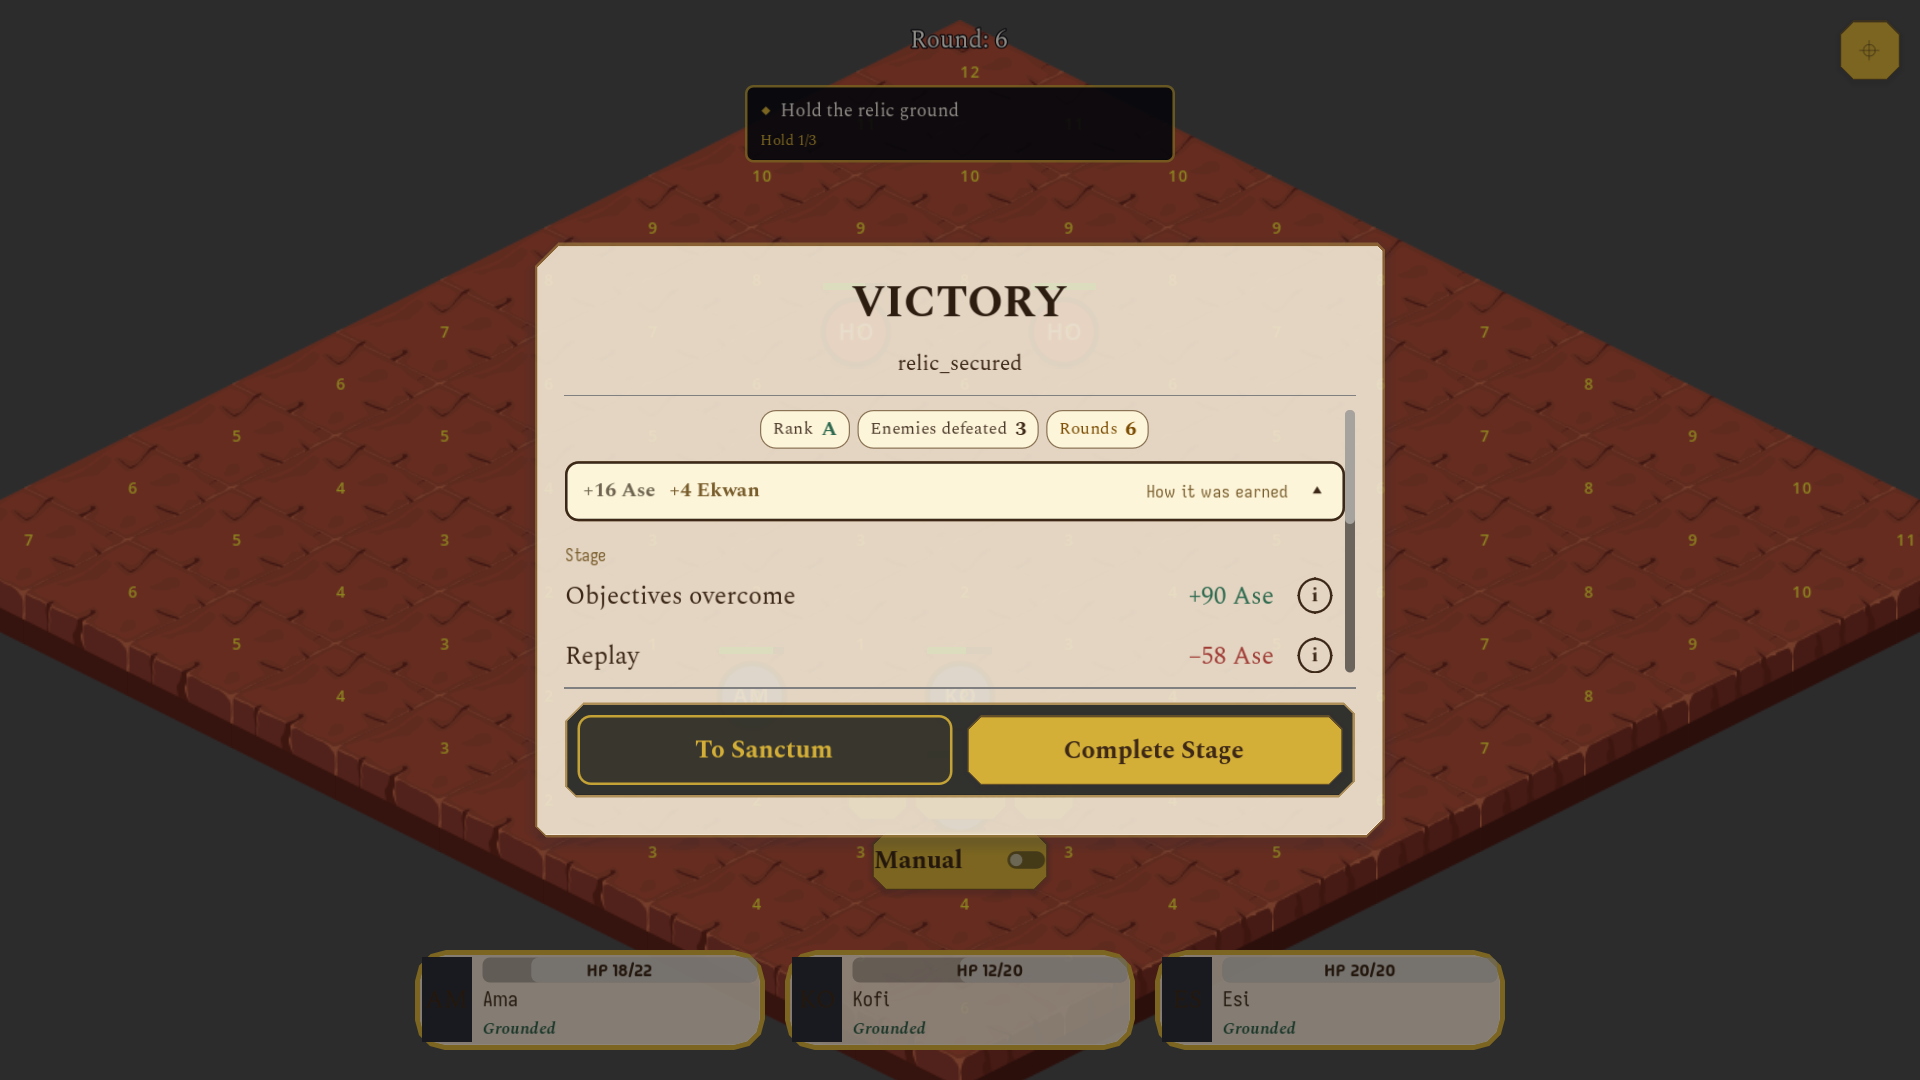
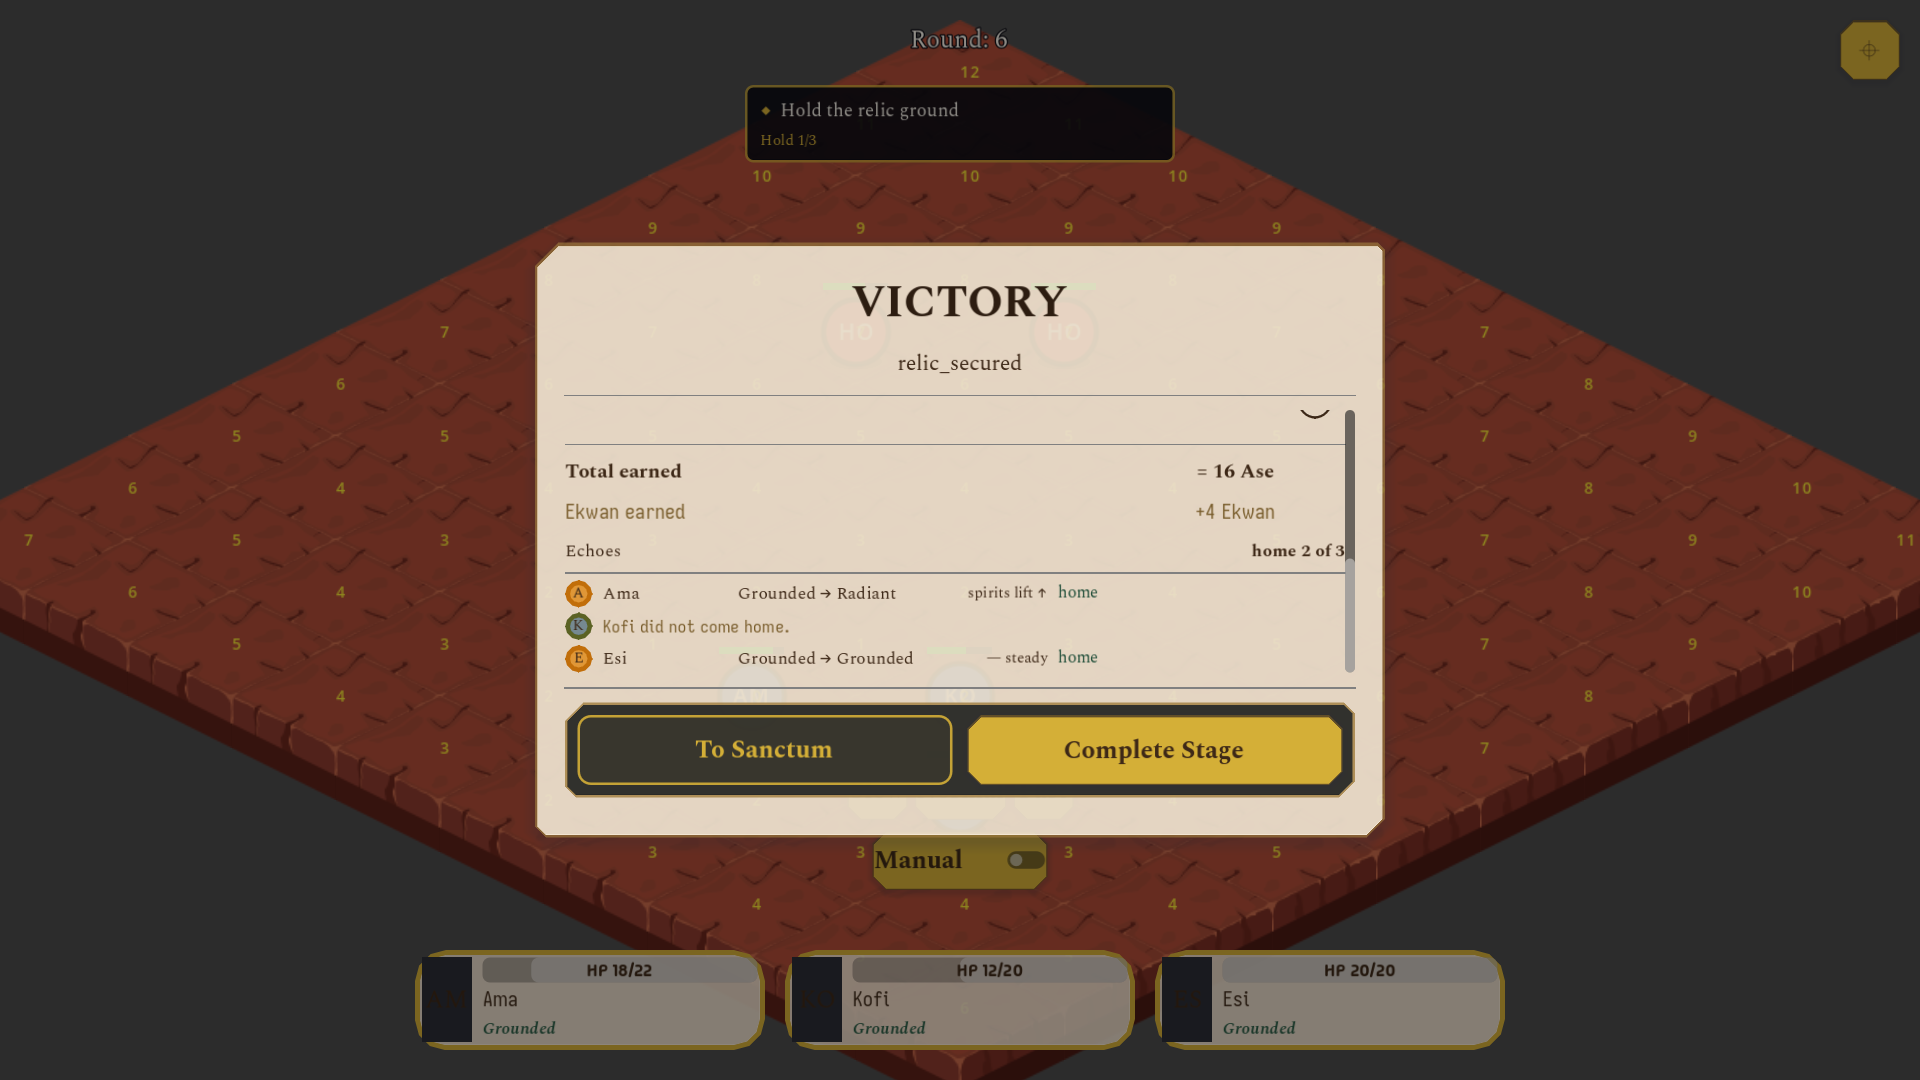
Test the ledger timing and fix the Pace UI tests
Pace tests use the stage-ending card and is_visible_in_tree.
New test: the rank note is not on a mid-stage win. Record D-17 as a proposal.

Changed region(s): [[0.2812, 0.3667, 0.7188, 0.6417], [0.5, 0.5194, 0.5625, 0.55]]

diff --git a/docs/stories/v2-payout-explanation/decisions.md b/docs/stories/v2-payout-explanation/decisions.md
@@ -108,3 +108,9 @@ Open for the UI: the return and retreat confirmation can say what is banked now 
 - Retreat button: reads `retreat_affordable` (a missing key reads as affordable) and `retreat_ase_cost`. Not affordable: disabled, price and "Not enough Ase" in the text. After a refused dispatch `retreat_denied` shows one plain line with both numbers from data.
 - PROPOSAL placeholders (not approved copy), all in `ui/components/CarriedHomePresentation.gd`: carried title, advance note, "The stage waits.", "With the party", "Going home costs nothing.", "Not enough Ase", the denied line.
 - BLOCKED: no intel-gained field on either snapshot, so the comparator has no intel line.
+
+## QA fixes D1 and D3 (UI, 2026-10-24)
+
+- D1: on a stage-ending card with the home sequence, the first-time ledger stays closed while the sequence runs. It opens when the sequence ends, when the player skips it by tap or key, or at once under reduced motion. `resolve.ledger.mark_seen` is sent when the ledger opens, once. A new snapshot mid-sequence drops the old wish with no emit. Cards with no home sequence open the ledger at once. After it opens, the screen scrolls only as far as needed to keep the "home N of M" line visible.
+- D-17 (PROPOSAL, pending Jeff's read): the pace rank-cause note ("The party's effort earned this rank") is not shown on a mid-stage win, because that card shows no rank letter and the note would have no anchor. It stays on the stage-ending card next to the Rank chip.
+- D3: the Pace UI tests now use the stage-ending card and assert `is_visible_in_tree()`, not the `visible` property.
